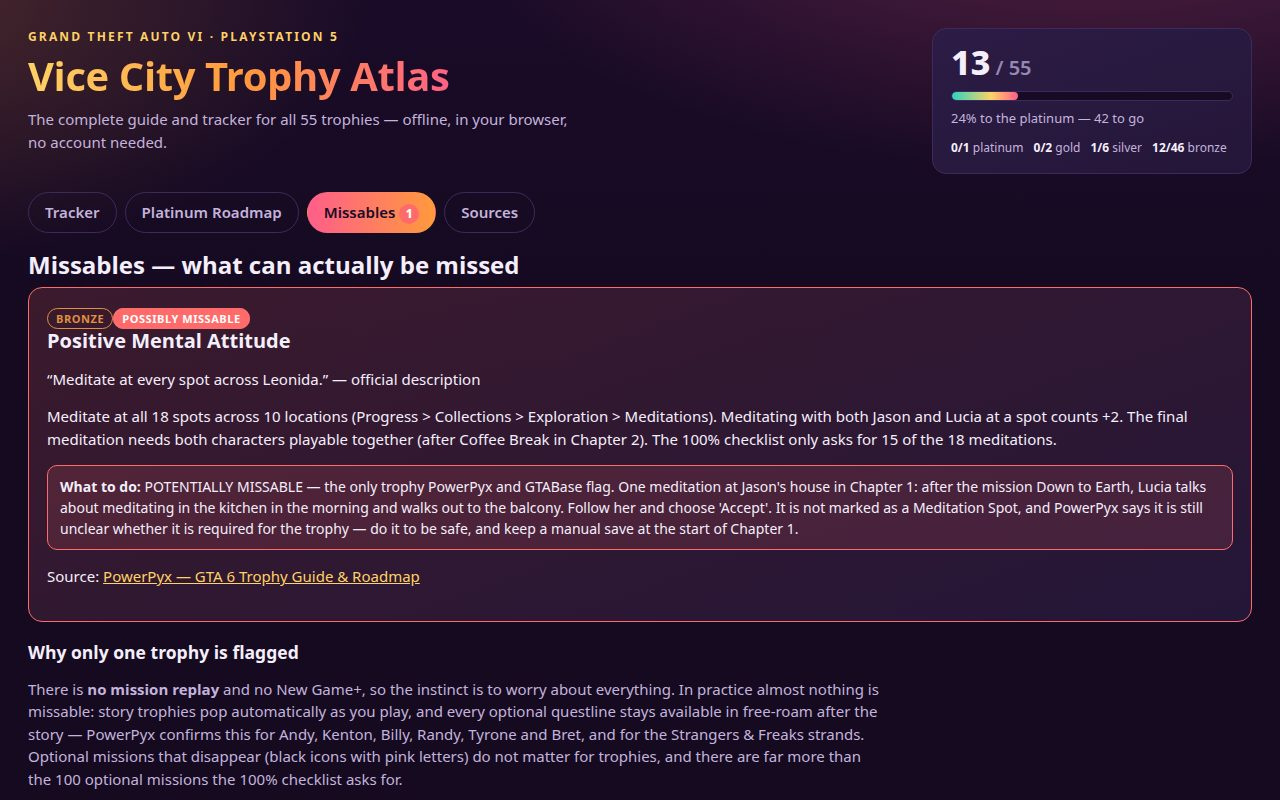
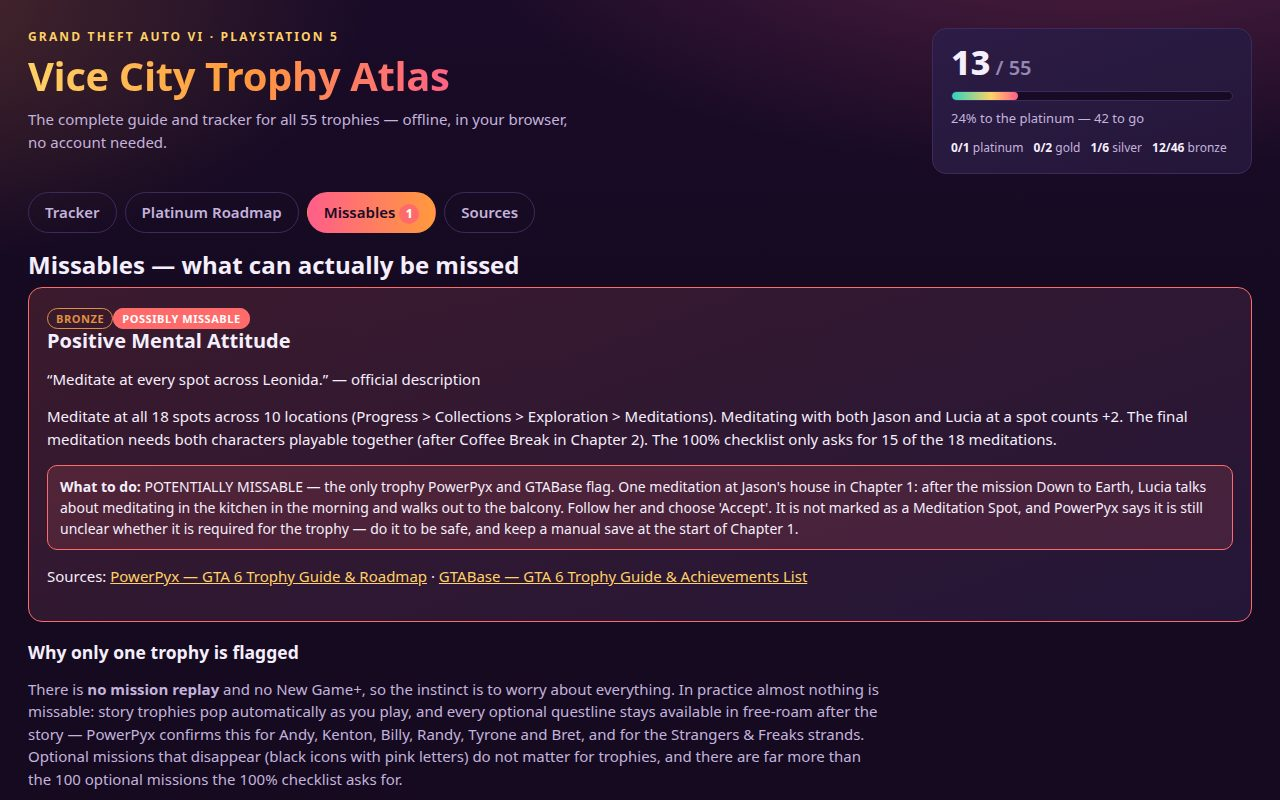
Fix audit D1-D4, P1-P3: drop unverified 52-area count, GTABase + Output Lag citations, re-framed lead shots, Yago note, rephrased bowling guide, quest commas

Changed region(s): [[0.0625, 0.6875, 0.625, 0.75]]

diff --git a/app/app.js b/app/app.js
@@ -3,6 +3,8 @@
 // data file. Progress lives in localStorage; export/import move it as JSON.
 const KEY = 'vice-city-trophy-atlas-v1';
 const POWERPYX = 'https://www.powerpyx.com/gta-6-grand-theft-auto-vi-trophy-guide-roadmap/';
+const GTABASE = 'https://www.gtabase.com/articles/gta-6/gta-6-achievements-trophies-list-ps5-xbox-series';
+const OUTPUTLAG = 'https://outputlag.com/guides/gta-6-trophy-list/';
 
 // Roadmap phases, in the order a player meets them. Trophy ids are the
 // official list's ids. Built from the official descriptions; times and the
@@ -222,10 +224,9 @@ function renderDetail() {
     pane.append(el('p', 'guide-text', t.guide));
     pane.append(el('h4', null, 'Sources'));
     const ul = el('ul', 'source-list-inline');
-    const roles = ['Official list', 'Guide method'];
     t.sources.forEach((s, i) => {
       const li = el('li');
-      li.append(el('span', 'src-role', `${roles[i] || 'Source'}: `));
+      li.append(el('span', 'src-role', `${i === 0 ? 'Official list' : 'Guide method'}: `));
       if (s.url) {
         const a = document.createElement('a');
         a.href = s.url; a.target = '_blank'; a.rel = 'noopener'; a.textContent = s.name;
@@ -285,11 +286,16 @@ function renderMissables() {
     call.append(el('strong', null, 'What to do: '), document.createTextNode(t.missable_note));
     card.append(call);
     const src = el('p');
-    src.append(document.createTextNode('Source: '));
+    src.append(document.createTextNode('Sources: '));
     const a = document.createElement('a');
     a.href = POWERPYX; a.target = '_blank'; a.rel = 'noopener';
     a.textContent = 'PowerPyx — GTA 6 Trophy Guide & Roadmap';
     src.append(a);
+    src.append(document.createTextNode(' · '));
+    const b = document.createElement('a');
+    b.href = GTABASE; b.target = '_blank'; b.rel = 'noopener';
+    b.textContent = 'GTABase — GTA 6 Trophy Guide & Achievements List';
+    src.append(b);
     card.append(src);
     wrap.append(card);
   }
@@ -304,6 +310,16 @@ function renderSources() {
       name: 'PowerPyx — GTA 6 Trophy Guide & Roadmap',
       url: POWERPYX,
       text: 'Per-trophy methods, the roadmap times and difficulty rating (4/10, ~200 hours), the missable flag, and the 100% checklist details. Every guide method in this atlas traces to this page.',
+    },
+    {
+      name: 'GTABase — GTA 6 Trophy Guide & Achievements List',
+      url: GTABASE,
+      text: 'Per-trophy unlock tips for all 55 trophies, the roadmap, the missable flag and the 100% checklist details — the second method source beside every guide in this atlas.',
+    },
+    {
+      name: 'Output Lag — GTA 6 Trophy List',
+      url: OUTPUTLAG,
+      text: 'Method sections for the robbery, partner, free-roam and grind trophies, the time-sensitive Yago race note for Strangers & Freaks, and the Chapter 1 save rules.',
     },
     {
       name: 'Exophase — GTA 6 trophy list',
